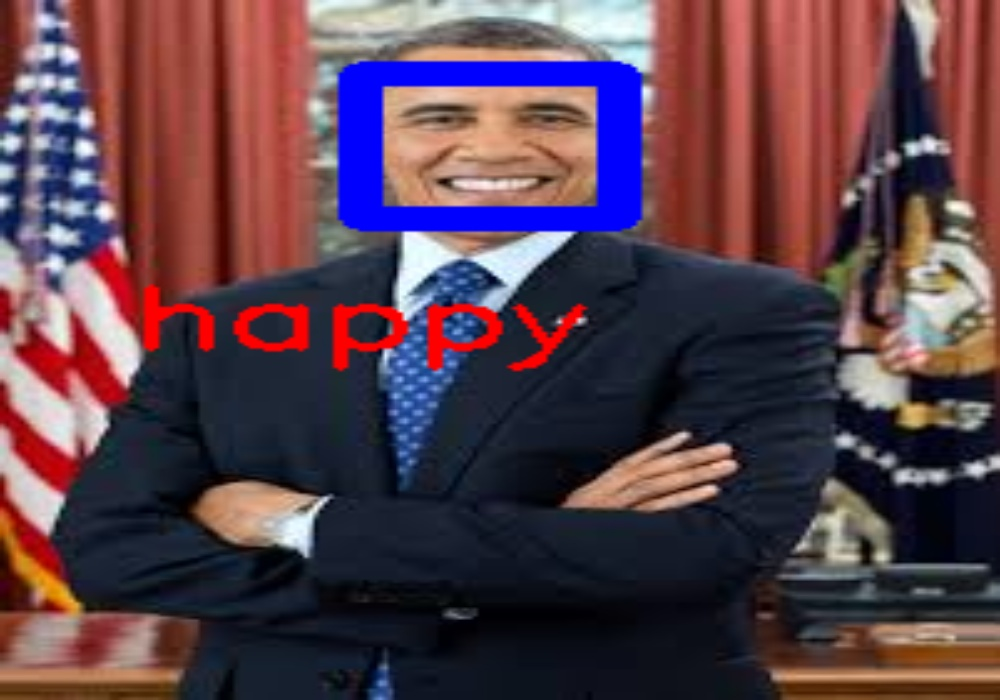
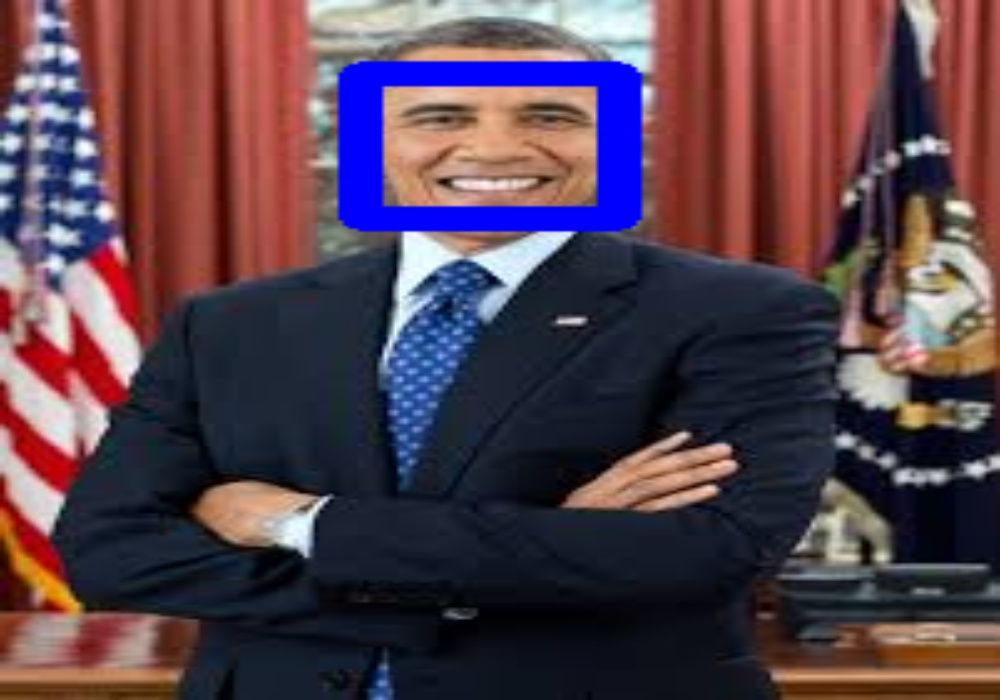
formatted the output

Changed region(s): [[0.124, 0.39, 0.589, 0.54]]

diff --git a/out_window.py b/out_window.py
@@ -34,6 +34,8 @@ class Ui_OutputDialog(QDialog):
         current_time = datetime.datetime.now().strftime("%I:%M %p")
         self.Date_Label.setText(current_date)
         self.Time_Label.setText(current_time)
+        self.TimeList1 = []
+        self.TimeList2 = []
 
     @pyqtSlot()
     def startVideo(self, camera_name):
@@ -164,7 +166,7 @@ class Ui_OutputDialog(QDialog):
                                 self.ClockInButton.setChecked(False)
 
                                 self.NameLabel.setText(name)
-                                self.StatusLabel.setText('Clocked In\n'+'\n'+emotion)
+                                self.StatusLabel.setText('Clocked In')
                                 self.HoursLabel.setText('Measuring')
                                 self.MinLabel.setText('')
 
@@ -203,6 +205,7 @@ class Ui_OutputDialog(QDialog):
                             else:
                                 print('Not clicked.')
                                 self.ClockOutButton.setEnabled(True)
+            self.DetectedEmotionLabel.setText(' '*15+emotion)
         
         
 
